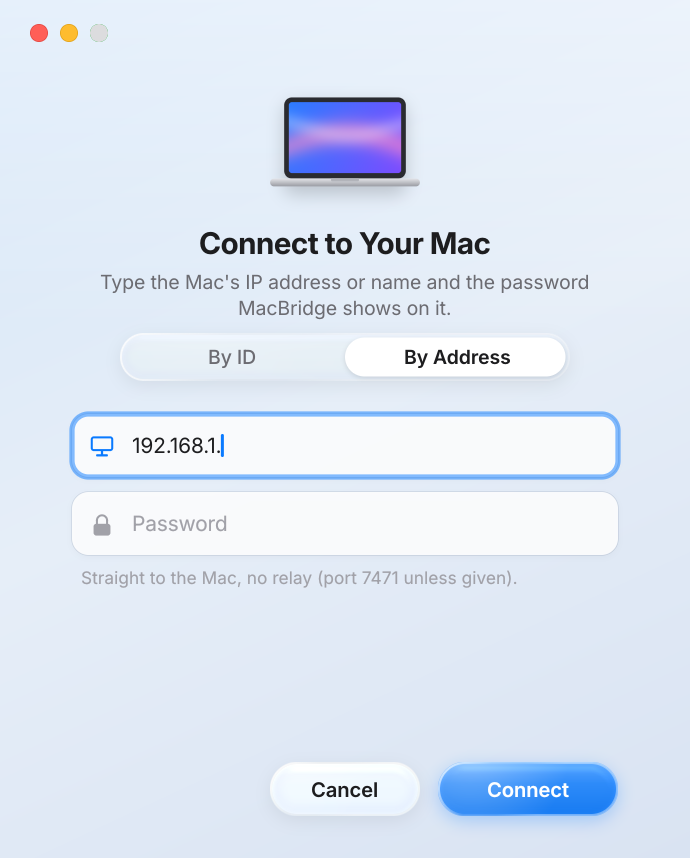
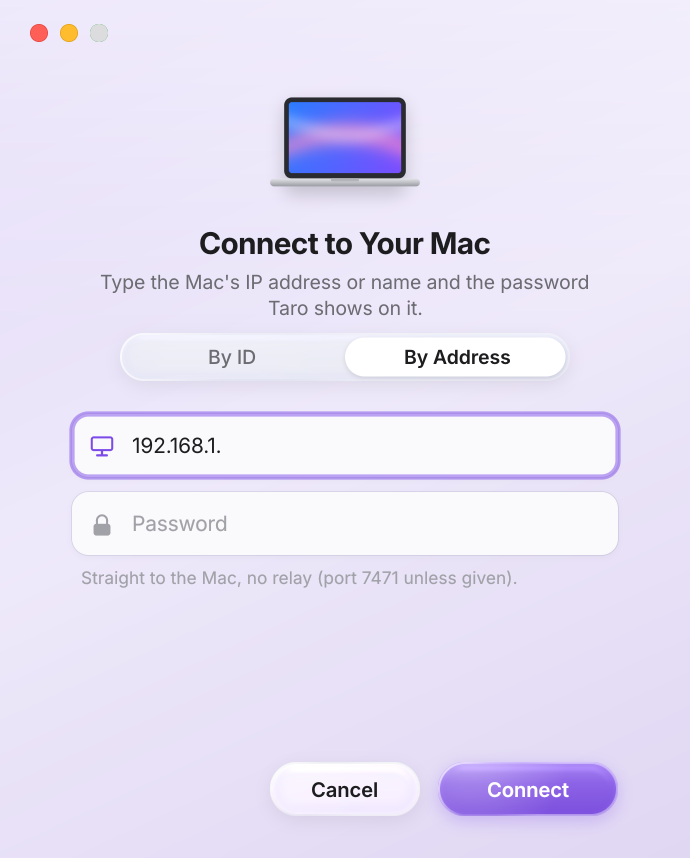
The Dock reads the Mac's own: Taro asks for it; README in Taro's violet
- The viewer's hello offered "fusion" (gone) and not "dock", so the Dock never
  read the Mac's: it now offers "dock". The e2e checks that both sides agree,
  and the record/replay test that the Dock is recorded and offered again.
- The Mac opens a Dock item's menu once more if the Dock was still closing
  another, and waits for a menu to close before the next is asked.
- The gallery asks for a Dock menu only when the Mac's Dock is there.
- Settings: a menu's shadow fades with it; the preview's menu fully open.
- README: the launcher, connect and Settings pictures in Taro's violet, the
  title bar of an app's window, the Dock as the Mac's own.

Claude-Session: https://claude.ai/code/session_01WNQQUgHjB2WGjxmYCPBjfT

Changed region(s): [[0.0913, 0.4545, 0.913, 0.5758], [0.6087, 0.8788, 0.913, 0.9697], [0.3348, 0.3333, 0.6391, 0.3939]]

diff --git a/agent/macos/MacDock.swift b/agent/macos/MacDock.swift
@@ -107,13 +107,28 @@ private func openMenu(of item: DockItem) -> AXUIElement? {
     return nil
 }
 
-private func closeMenu(_ menu: AXUIElement) {
+private func closeMenu(_ menu: AXUIElement, of item: DockItem) {
     if AXUIElementPerformAction(menu, kAXCancelAction as CFString) != .success {
         // Escape, as a person would
         let src = CGEventSource(stateID: .hidSystemState)
         CGEvent(keyboardEventSource: src, virtualKey: 53, keyDown: true)?.post(tap: .cghidEventTap)
         CGEvent(keyboardEventSource: src, virtualKey: 53, keyDown: false)?.post(tap: .cghidEventTap)
     }
+    // gone before anything else of the Dock is asked (a menu of another item would not open
+    // while this one still closes)
+    for _ in 0..<12 where dKids(item.element).contains(where: { (dAX($0, kAXRoleAttribute as String) as? String) == (kAXMenuRole as String) }) {
+        usleep(40_000)
+    }
+}
+
+/// Open the item's menu (once more, a moment later, if it did not come: the Dock may still be
+/// closing another).
+private func showMenu(of item: DockItem) -> AXUIElement? {
+    for attempt in 0..<2 {
+        if attempt > 0 { usleep(350_000) }
+        if AXUIElementPerformAction(item.element, kAXShowMenuAction as CFString) == .success, let m = openMenu(of: item) { return m }
+    }
+    return nil
 }
 
 private func menuNodes(_ menu: AXUIElement, depth: Int = 0) -> [[String: Any]] {
@@ -130,30 +145,30 @@ private func menuNodes(_ menu: AXUIElement, depth: Int = 0) -> [[String: Any]] {
 
 /// The item's menu as the Mac shows it (opened for a moment, read, closed).
 func readDockMenu(_ item: DockItem) -> [[String: Any]] {
-    guard AXUIElementPerformAction(item.element, kAXShowMenuAction as CFString) == .success, let menu = openMenu(of: item) else { return [] }
+    guard let menu = showMenu(of: item) else { return [] }
     let nodes = menuNodes(menu)
-    closeMenu(menu)
+    closeMenu(menu, of: item)
     return nodes
 }
 
 /// Choose the entry at `path` of the item's menu (opened again, the entry pressed).
 func invokeDockMenu(_ item: DockItem, path: [Int]) -> Bool {
-    guard !path.isEmpty, AXUIElementPerformAction(item.element, kAXShowMenuAction as CFString) == .success, let menu = openMenu(of: item) else { return false }
+    guard !path.isEmpty, let menu = showMenu(of: item) else { return false }
     var level = menu
     var target: AXUIElement?
     for (i, k) in path.enumerated() {
         let entries = dKids(level)
-        guard k >= 0, k < entries.count else { closeMenu(menu); return false }
+        guard k >= 0, k < entries.count else { closeMenu(menu, of: item); return false }
         if i == path.count - 1 {
             target = entries[k]
         } else {
             // a submenu: open it (its entries are there once it is)
             _ = AXUIElementPerformAction(entries[k], kAXPressAction as CFString)
             usleep(80_000)
-            guard let sub = dKids(entries[k]).first(where: { (dAX($0, kAXRoleAttribute as String) as? String) == (kAXMenuRole as String) }) else { closeMenu(menu); return false }
+            guard let sub = dKids(entries[k]).first(where: { (dAX($0, kAXRoleAttribute as String) as? String) == (kAXMenuRole as String) }) else { closeMenu(menu, of: item); return false }
             level = sub
         }
     }
-    guard let t = target, AXUIElementPerformAction(t, kAXPressAction as CFString) == .success else { closeMenu(menu); return false }
+    guard let t = target, AXUIElementPerformAction(t, kAXPressAction as CFString) == .success else { closeMenu(menu, of: item); return false }
     return true
 }

diff --git a/crates/rm-client/src/lib.rs b/crates/rm-client/src/lib.rs
@@ -36,7 +36,7 @@ impl<S: Read + Write> Session<S> {
     /// Runs the handshake. Only returns once the agent has sent ServerHello
     /// AND its capability report; `state` is then `Ready`, never earlier.
     pub fn handshake(mut stream: S) -> Result<Self, ClientError> {
-        let ours = Hello::ours(&format!("remote-mac {}", env!("CARGO_PKG_VERSION")), &["h264"], &["control", "audio", "open_file", "fusion", "mask", "exact", "menubar", "bye"]);
+        let ours = Hello::ours(&format!("remote-mac {}", env!("CARGO_PKG_VERSION")), &["h264"], &["control", "audio", "open_file", "mask", "exact", "menubar", "bye", "dock"]);
         write_message(&mut stream, &Message::ClientHello(ours.clone()))?;
         let theirs = match next(&mut stream)? {
             Message::ServerHello(h) => h,
@@ -277,6 +277,8 @@ mod tests {
         let stream = join(&addr, "rep-1", Role::Client, tok).unwrap();
         stream.set_read_timeout(Some(std::time::Duration::from_millis(500))).unwrap();
         let mut sess = Session::handshake(stream).unwrap();
+        // the Mac's Dock was recorded, and is offered again
+        assert!(sess.negotiated.features.iter().any(|f| f == "dock"), "{:?}", sess.negotiated.features);
         let apps = sess.list_apps().unwrap();
         assert!(apps.iter().any(|a| a.id == "notes" && a.available), "{apps:?}");
         sess.send(&Message::AppLaunch { application_id: "notes".into(), arguments: vec![], working_directory: None, environment: Default::default() }).unwrap();

diff --git a/crates/rm-viewer/src/settingsui.rs b/crates/rm-viewer/src/settingsui.rs
@@ -652,7 +652,7 @@ impl SettingsView {
                     b
                 }
             };
-            c.shadow(mx, my, mw, mh, mr, self.p(14.0), self.p(5.0), Rgba::BLACK.alpha(if self.dark { 0.45 } else { 0.18 }));
+            c.shadow(mx, my, mw, mh, mr, self.p(14.0), self.p(5.0), Rgba::BLACK.alpha(if self.dark { 0.45 } else { 0.18 } * open));
             c.composite(&body, mx.round() as isize, (my - (1.0 - open) * self.p(6.0)).round() as isize, open);
             let (items, hover, chosen) = {
                 let m = self.menu.as_ref().unwrap();
@@ -784,7 +784,9 @@ mod preview {
                 v.mouse_down(x + w - 30.0, y + h / 2.0);
                 v.mouse_up(x + w - 30.0, y + h / 2.0);
                 v.key_up_down(true);
-                save(&v.render(later), "settings-menu.ppm");
+                // (its opening animation done: timed from now, the earlier pictures may have
+                // taken a while)
+                save(&v.render(Instant::now() + Duration::from_secs(3)), "settings-menu.ppm");
                 v.key_escape();
                 v.section = 1;
                 save(&v.render(later), "settings-sound.ppm");

diff --git a/crates/rm-viewer/src/ui.rs b/crates/rm-viewer/src/ui.rs
@@ -4158,7 +4158,8 @@ fn gallery_tick(dir: &std::path::Path) -> bool {
                 crate::dock::reveal_now(POINT { x: wa.left, y: (wa.top + wa.bottom) / 2 });
             } else if t > Duration::from_millis(1600) && GALLERY_KEYS.with(|g| g.get()) == 1 {
                 GALLERY_KEYS.with(|g| g.set(2));
-                if let Some((id, at)) = crate::dock::first_item() {
+                // (a Mac without its Dock to read: Taro's own items, no menu)
+                if let Some((id, at)) = crate::dock::first_item().filter(|_| net::mac_has("dock")) {
                     crate::dock::hold(true);
                     dock_menu_asked(id, at);
                 }

diff --git a/crates/rm-client/src/e2e.rs b/crates/rm-client/src/e2e.rs
@@ -639,6 +639,9 @@ fn relaunch<S: Read + Write>(c: &mut Ctx<S>) {
 /// Trash last), a right-click menu read as the Mac shows it, the Trash opened as a Finder window
 /// shown on Windows.
 fn mac_dock<S: Read + Write>(c: &mut Ctx<S>) {
+    // offered by the Mac and asked for by Taro (else a viewer never reads the Mac's Dock)
+    let features = c.sess.negotiated.features.clone();
+    c.r.check("Mac Dock: agreed on both sides (feature \"dock\")", features.iter().any(|f| f == "dock"), format!("{features:?}"));
     c.mac_dock = None;
     c.send(Message::DockList);
     c.pump(10, |c| c.mac_dock.is_some());

diff --git a/README.md b/README.md
@@ -43,8 +43,9 @@ Desktop, streamed the way Moonlight streams a game.
 
 Taro's own windows are drawn after Apple's Screen Sharing on macOS 26: no Windows title
 bar (the window's toolbar is its title bar, with the red, yellow and green buttons), Liquid Glass
-controls, text set as macOS sets it, light and dark. These pictures are rendered by the app's
-own drawing code (`RM_PREVIEW=dir cargo test -p rm-viewer preview`); the app icons in them are stand-ins.
+controls, text set as macOS sets it, light and dark, in Taro's violet. These pictures are
+rendered by the app's own drawing code (`RM_PREVIEW=dir cargo test -p rm-viewer preview`); the
+app icons in them are stand-ins.
 
 | The launcher, dark | Scrolled: the grid softens under the glass toolbar |
 |---|---|
@@ -56,7 +57,13 @@ own drawing code (`RM_PREVIEW=dir cargo test -p rm-viewer preview`); the app ico
 
 | Settings | A menu open in Settings |
 |---|---|
-| ![Settings after System Settings: a glass sidebar, rounded groups, menus and switches](docs/images/settings-light.png) | ![A menu of Settings, the choice ticked](docs/images/settings-menu.png) |
+| ![Settings after System Settings: a glass sidebar with Video, Sound, Keyboard & Pointer, Appearance and Dock, rounded groups, menus and switches](docs/images/settings-light.png) | ![A menu of Settings in violet, the choice ticked](docs/images/settings-menu.png) |
+
+A Mac app's window on Windows: its title bar carries the traffic lights, the app's own menus and
+the document's title (light and dark).
+
+![The title bar of TextEdit on Windows: traffic lights, the app's menus, its title](docs/images/titlebar-light.png)
+![The same title bar in dark mode](docs/images/titlebar-dark.png)
 
 ## Features
 
@@ -89,8 +96,10 @@ own drawing code (`RM_PREVIEW=dir cargo test -p rm-viewer preview`); the app ico
 - **Liquid Glass UI** for Taro's own menus, search and banners, with reduced-motion and
   reduced-transparency fallbacks, and three **keyboard modes** (Windows, Mac, Fusion).
   *(new in 1.2)*
-- **The Dock** at the left or right edge of the screen: the Mac Desktop, the Mac apps open here
-  and Open an App, out only when you push the pointer against that edge. *(new in 1.2)*
+- **The Mac's own Dock** at the left or right edge of the screen, out only when you push the
+  pointer against that edge: its apps, folders and Trash in the Mac's order, the dots of the
+  running apps, the same right-click menus (Options, Show All Windows, Quit, Empty Trash…),
+  icons sized to fit the screen. *(new in 1.2)*
 - **Full screen like on the Mac**: a Mac app takes the whole monitor at its exact size, over
   the taskbar; push the pointer against the bottom edge and the taskbar comes up.
 - **End-to-end encrypted.** A password-authenticated key exchange, then ChaCha20-Poly1305 on
